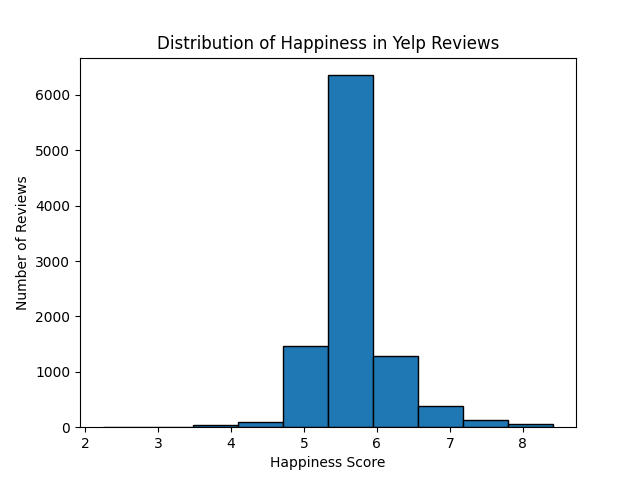
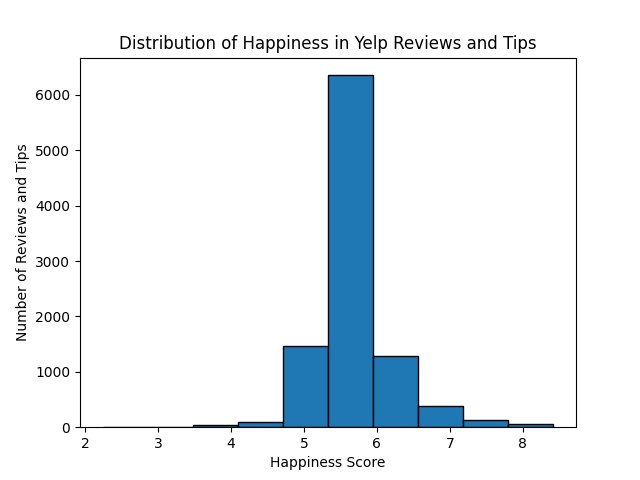
Improving histogram descriptions

Changed region(s): [[0.1875, 0.0625, 0.8438, 0.125], [0.0, 0.375, 0.0625, 0.7188], [0.0312, 0.3125, 0.0625, 0.3438]]

diff --git a/src/Yelp_hedonometer_analysis.py b/src/Yelp_hedonometer_analysis.py
@@ -27,8 +27,8 @@ if not os.path.exists(figures_dir):
     os.makedirs(figures_dir)
 plt.hist(data['happiness_average'].dropna(), bins=10, edgecolor='black')
 plt.xlabel('Happiness Score')
-plt.ylabel('Number of Reviews')
-plt.title('Distribution of Happiness in Yelp Reviews')
+plt.ylabel('Number of Reviews and Tips')
+plt.title('Distribution of Happiness in Yelp Reviews and Tips')
 plt.savefig(os.path.join(figures_dir, 'yelp_reviews_tips_happiness_distribution.png'))
 plt.show()
 
